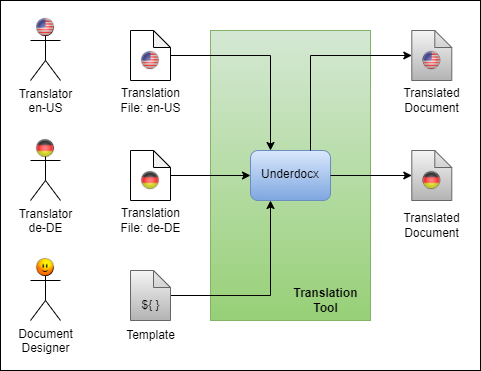
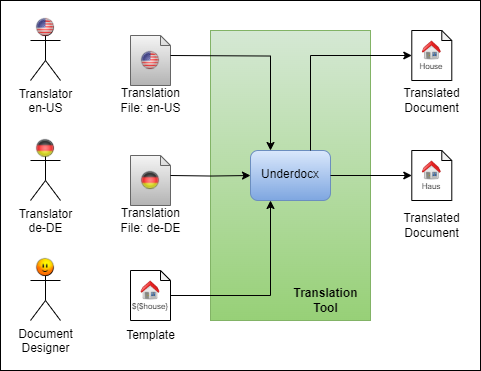
modified translation usecase

diff --git a/doc/web/guide.html b/doc/web/guide.html
@@ -154,11 +154,11 @@
         the user.
         <div class="imageContainer"><img src="images/guide/exampleWebShop.png" /></div>
 
-        <h4>Example Use Case: Translatable Document</h4>
+        <h4>Example Use Case: Translatable Graphics</h4>
 
-        Underdocx might be used as a translation tool, taking a document with placeholders
-        that shall be replaced by translations. Underdocx also takes the translation
-        data, provided by translation files, and generates the document in multiple
+        Underdocx might be used as a translation tool, taking a document or graphics with placeholders
+        that shall be replaced by translations or other images. Underdocx also takes the translation
+        data, provided by translation files, and generates the documents or graphics in multiple
         translated variants.
         <div class="imageContainer"><img src="images/guide/ExampleTranslation.png" /></div>
 
